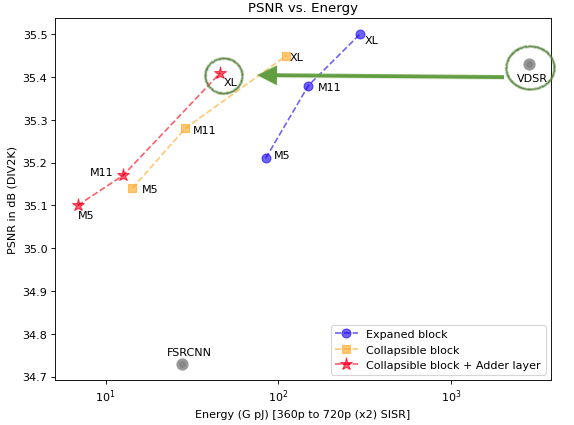
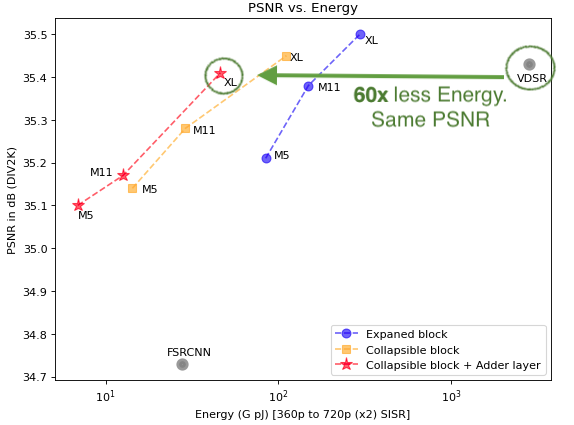
AdderSESR

Changed region(s): [[0.5923, 0.1835, 0.8885, 0.3059]]

diff --git a/README.md b/README.md
@@ -2,8 +2,8 @@
 
 With similar or better image quality, AdderSESR achieves up 25x improvement (x2 super resolution) in Multiply-Accumulate (MAC) operations and 60x improvement in energy consumption compared to existing methods. 
 
-![AdderSESR Achieves State-of-the-art Super Resolution Results with 25x less MACs](/figures/MACs.png)
-![AdderSESR Achieves State-of-the-art Super Resolution Results with 60x fewer energy](/figures/Energy.png)
+![AdderSESR Achieves State-of-the-art Super Resolution Results with 25x less MACs](/figures/MACs.png | width=200)
+![AdderSESR Achieves State-of-the-art Super Resolution Results with 60x fewer energy](/figures/Energy.png | width=200)
 
 AdderSESR networks establish a new state-of-the-art for efficient computation and low-energy image Super-Resolution.
 
